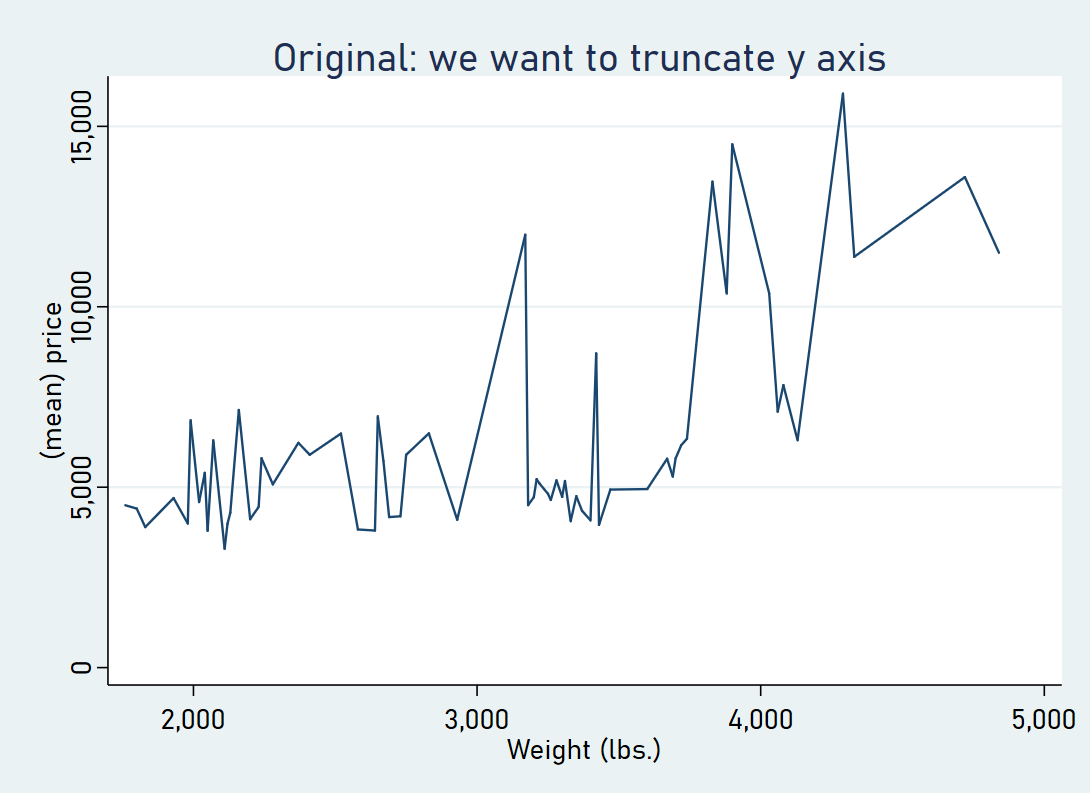
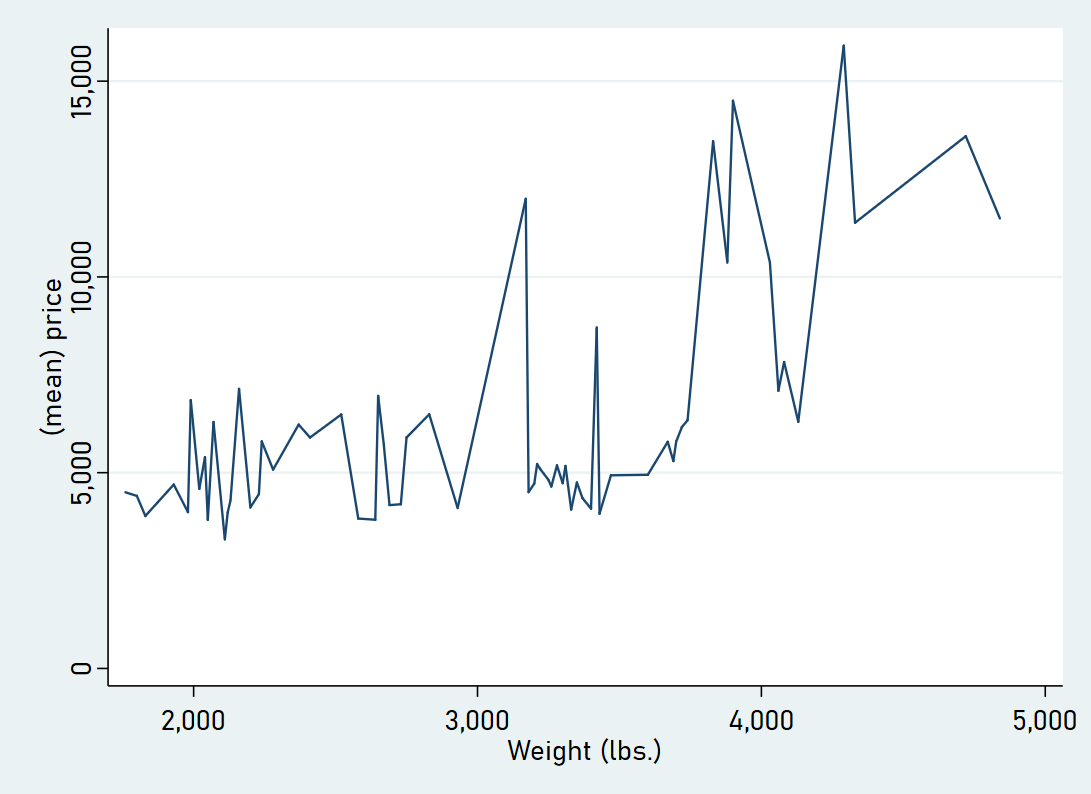
simplified example

diff --git a/README.md b/README.md
@@ -17,4 +17,4 @@
 * See Stata do file for proof of concept.
 * Challenge: line gets a bit rugged...
 
-<img src="fig5.png" width="400">
+<img src="fig2.png" width="400">
